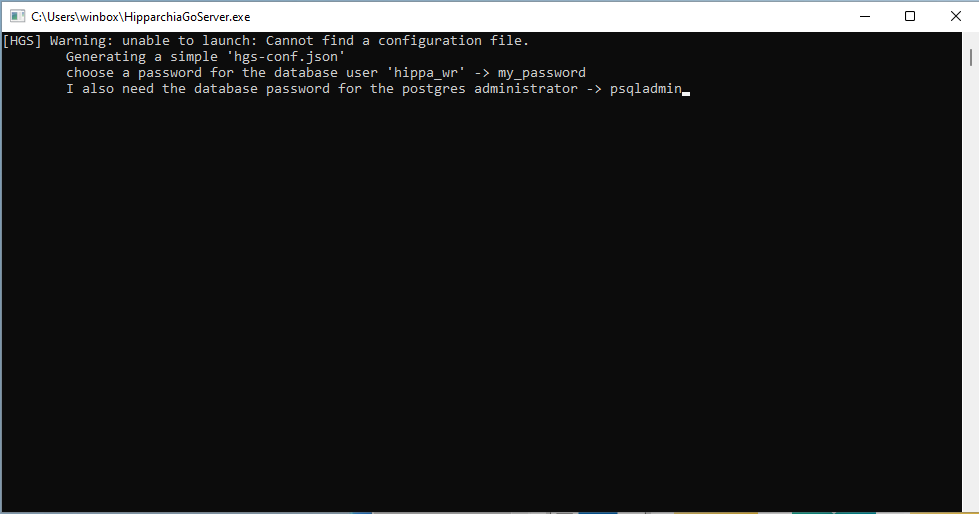
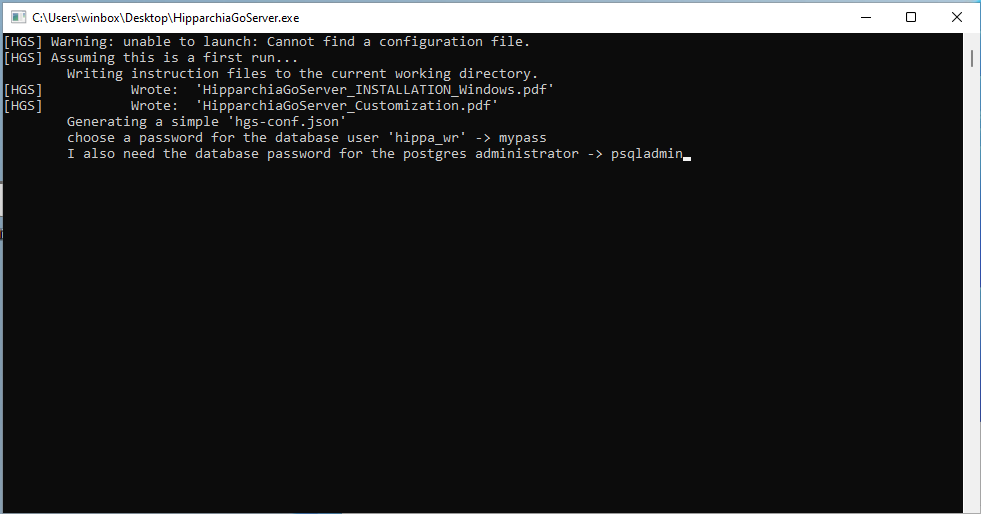
embed PDFs; CopyInstructions() on first launch of a new installation

Changed region(s): [[0.0, 0.0, 1.0, 0.3113], [0.0, 0.0623, 1.0, 1.0]]

diff --git a/configatlaunch.go b/configatlaunch.go
@@ -48,7 +48,7 @@ func LookForConfigFile() {
 		FWR      = "\tC1Wrote a configuration file to 'C3%sC1'C0\n"
 		PWD1     = "\tchoose a password for the database user 'hippa_wr' ->C0 "
 		NODB     = "hipparchiaDB does not exist: executing InitializeHDB()"
-		FOUND    = "Found 'authors': skipping database loading"
+		FOUND    = "Found 'authors': skipping database loading. If there are problems going forward you might need to reset the database: '-00'"
 		NOTFOUND = "The database exists but seems to be empty. Need to reload the data."
 	)
 	_, a := os.Stat(CONFIGBASIC)
@@ -70,7 +70,7 @@ func LookForConfigFile() {
 
 	if notfound {
 		msg(WRN, MSGCRIT)
-
+		CopyInstructions()
 		_, e = os.Stat(fmt.Sprintf(CONFIGALTAPTH, h))
 		if e != nil {
 			fmt.Println(coloroutput(fmt.Sprintf(FYI, fmt.Sprintf(CONFIGALTAPTH, h))))
@@ -123,7 +123,6 @@ func ConfigAtLaunch() {
 		FAIL5 = "Improperly formatted corpus list. Using:\n\t%s"
 		FAIL6 = "Could not open '%s'"
 	)
-
 	Config.Authenticate = false
 	Config.BadChars = UNACCEPTABLEINPUT
 	Config.BlackAndWhite = BLACKANDWHITE
@@ -340,6 +339,61 @@ func SetConfigPass(cfg CurrentConfiguration, cf string) {
 			DBName: DEFAULTPSQLDB,
 			Pass:   conf.PostgreSQLPassword,
 		}
+	}
+}
+
+// CopyInstructions - write the embedded PDF to the filesystem
+func CopyInstructions() {
+	const (
+		FYI  = "Assuming this is a first run...\n\tWriting instruction files to the current working directory."
+		MACI = "HipparchiaGoServer_INSTALLATION_MacOS.pdf"
+		WINI = "HipparchiaGoServer_INSTALLATION_Windows.pdf"
+		CUST = "HipparchiaGoServer_Customization.pdf"
+		FYIF = "HipparchiaGoServer_FYI.pdf"
+		FNF  = "CopyInstructions(): Embedded PDF not found. This function will now return."
+		PERM = 0644
+	)
+
+	var f string
+
+	goos := runtime.GOOS
+	switch goos {
+	case "darwin":
+		f = MACI
+	case "windows":
+		f = WINI
+	default:
+		f = ""
+	}
+
+	if f != "" {
+		data, err := efs.ReadFile("emb/pdf/" + f)
+		if err != nil {
+			msg(FNF, MSGWARN)
+			return
+		}
+
+		msg(FYI, MSGCRIT)
+
+		err = os.WriteFile(f, data, PERM)
+		if err != nil {
+			msg(FNF, MSGWARN)
+			return
+		}
+		msg(fmt.Sprintf("\t\tWrote:\t'%s'", f), MSGCRIT)
+	}
+
+	for _, info := range []string{CUST, FYIF} {
+		data, err := efs.ReadFile("emb/pdf/" + info)
+		if err != nil {
+			return
+		}
+		err = os.WriteFile(info, data, PERM)
+		if err != nil {
+			msg(FNF, MSGWARN)
+			return
+		}
+		msg(fmt.Sprintf("\t\tWrote:\t'%s'", info), MSGCRIT)
 	}
 }
 

diff --git a/INSTRUCTIONS/INSTALLATION_MACOS_RECOMMENDED.md b/INSTRUCTIONS/INSTALLATION_MACOS_RECOMMENDED.md
@@ -20,7 +20,7 @@
 
     ![inst02](../gitimg/macos_posgresapp/02_initialize.png)
 
-4. After you have initizlized the server you might want to check that `PostgreSQL` is set to be constantly running. See `Server Settings...` and look for `Automatically start server`.
+4. After you have initialized the server you might want to check that `PostgreSQL` is set to be constantly running. See `Server Settings...` and look for `Automatically start server`.
 
     ![inst02](../gitimg/macos_posgresapp/03_autostart.png)
 
@@ -32,11 +32,7 @@
 
 2. If you download a file like `HipparchiaGoServer-1.1.0-darwin-amd64.zip`, it needs to be UNZIPPED. Double-clicking will do that. You will then see something like `HipparchiaGoServer-1.1.0-darwin-amd64` in the same folder.
 
-3. This file needs to be RENAMED: `HipparchiaGoServer-1.1.0-darwin-amd64` --> `HipparchiaGoServer`
-
-   ![inst12](../gitimg/macos_homebrew/12_renamea.png)
-
-   ![inst13](../gitimg/macos_homebrew/13_renameb.png)
+3. This file *might* need to be RENAMED: `HipparchiaGoServer-1.1.0-darwin-amd64` --> `HipparchiaGoServer`
 
 4. Double-click to launch. It is possible that you will get a complaint about an UNIDENTIFIED DEVELOPER. In that case you need to go to `System Settings` -> `Gatekeeper` -> `Security` and then allow this application to run.
 
@@ -50,7 +46,7 @@
 
 1. The database load happens the first time you run `HipparchiaGoServer`. This will take *several minutes*.
 
-2. On the first run you will be asked for the password for `hippa_wr`.
+2. On the first run instruction files will be dropped into your current working directory. You will be asked for the password for `hippa_wr`.
 
    ![inst15](../gitimg/macos_homebrew/15_firstrun.png)
 
@@ -60,10 +56,13 @@
 
 4. After several minutes the server will launch. The self-load process only has to happen once.
 
+
    ![inst02](../gitimg/macos_posgresapp/06_selfload_done.png)
 
+5. When you see `http server started on 127.0.0.1:8000` you are up and running. From here on out you can just double-click
+to launch the program. You can also leave it running indefinitely: it does not consume many resources if not active. 
 
-### [D] Archiving / Migrating
+### [D] [FYI] Archiving / Migrating
 
 1. If you lose/destroy the `hDB` folder with the original data and want it back, the data can be extracted and archived.
 
@@ -73,7 +72,7 @@
 
 4. That folder will take up a lot of room on your machine. You could consider compressing it.
 
-### [E] Troubleshooting / Resetting
+### [E] [FYI] Troubleshooting / Resetting
 
 #### [E1] easier
 

diff --git a/INSTRUCTIONS/CUSTOMIZATION.md b/INSTRUCTIONS/CUSTOMIZATION.md
@@ -1,9 +1,7 @@
-If you put a file named `hgs-prolix-conf.json` into `.config` in your home folder, 
-you can override a number of built-in defaults. 
+If you put a file named `hgs-prolix-conf.json` into `.config` in your home folder, you can override a number of built-in defaults. 
 You can also delete the very basic `hgo-conf.json` if you do this, but you will want to get `PGLogin` right.
 
-One-time overrides are available by setting flags when launching `HipparchiaGoServer`. 
-Try running `HipparchiaGoServer -h` to see them.
+One-time overrides are available by setting flags when launching `HipparchiaGoServer`. Try running `HipparchiaGoServer -h` to see them.
 
 You can skip any of the items below and they will have defaults inserted instead. 
 
@@ -35,7 +33,7 @@ Items of most interest:
   "ManualGC": true,
   "MaxText": 25000,
   "PGLogin":
-    {"Pass": "YOURPASSWORDHERE" ,"Host": "127.0.0.1", "Port": 5432, "DBName": "hipparchiaDB" ,"User": "hippa_wr"},
+    {"Pass": "" ,"Host": "127.0.0.1", "Port": 5432, "DBName": "hipparchiaDB" ,"User": "hippa_wr"},
   "QuietStart": true,
   "VocabByCt": false,
   "VocabScans": false,

diff --git a/fyi/README.md b/fyi/README.md
@@ -40,13 +40,13 @@
       34 unique files.                              
        0 files ignored.
 
-github.com/AlDanial/cloc v 1.96  T=0.03 s (1076.1 files/s, 414274.5 lines/s)
+github.com/AlDanial/cloc v 1.96  T=0.03 s (1132.5 files/s, 438895.4 lines/s)
 -------------------------------------------------------------------------------
 Language                     files          blank        comment           code
 -------------------------------------------------------------------------------
-Go                              34           1976           1786           9327
+Go                              34           1986           1798           9393
 -------------------------------------------------------------------------------
-SUM:                            34           1976           1786           9327
+SUM:                            34           1986           1798           9393
 -------------------------------------------------------------------------------
 
 ```

diff --git a/INSTRUCTIONS/INSTALLATION_WINDOWS.md b/INSTRUCTIONS/INSTALLATION_WINDOWS.md
@@ -73,7 +73,7 @@ have successfully installed the data into the database.
 
 2. The database load happens the first time you run `HipparchiaGoServer`. This will take *several minutes*.
 
-3. On the first run you will be asked for a fresh password for `hippa_wr` you will also need the 
+3. On the first run instruction files will be dropped into your current working directory. You will be asked for a fresh password for `hippa_wr` you will also need the 
 PSQL administrator password you entered at `A.4` above.
 
 ![inst13](../gitimg/windows/17_firstlaunch.png)
